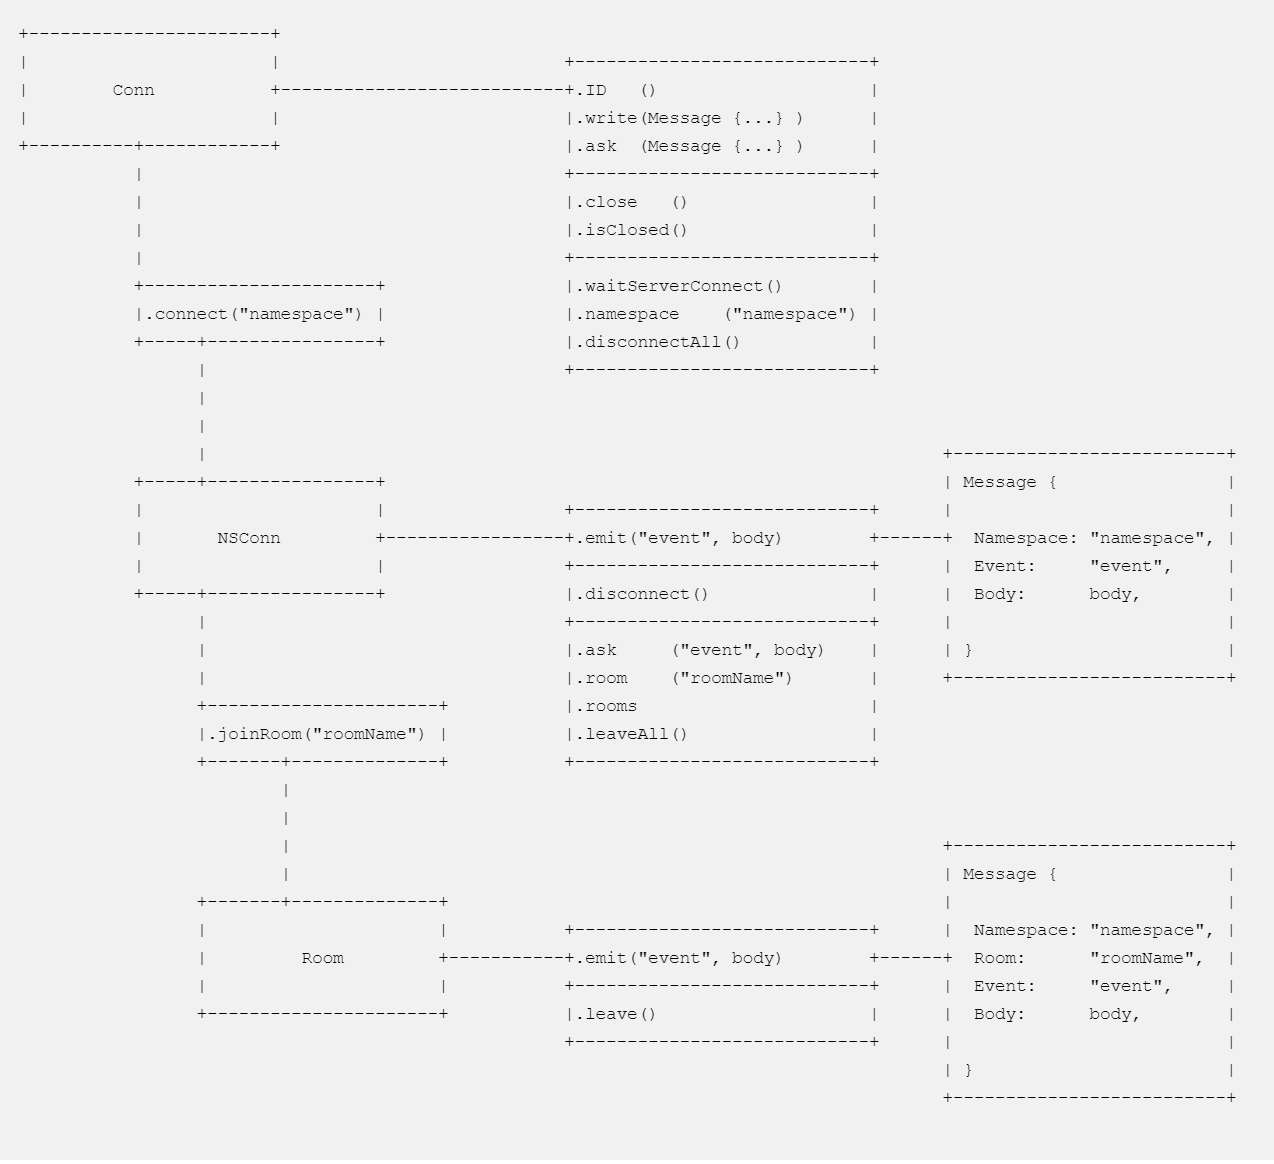
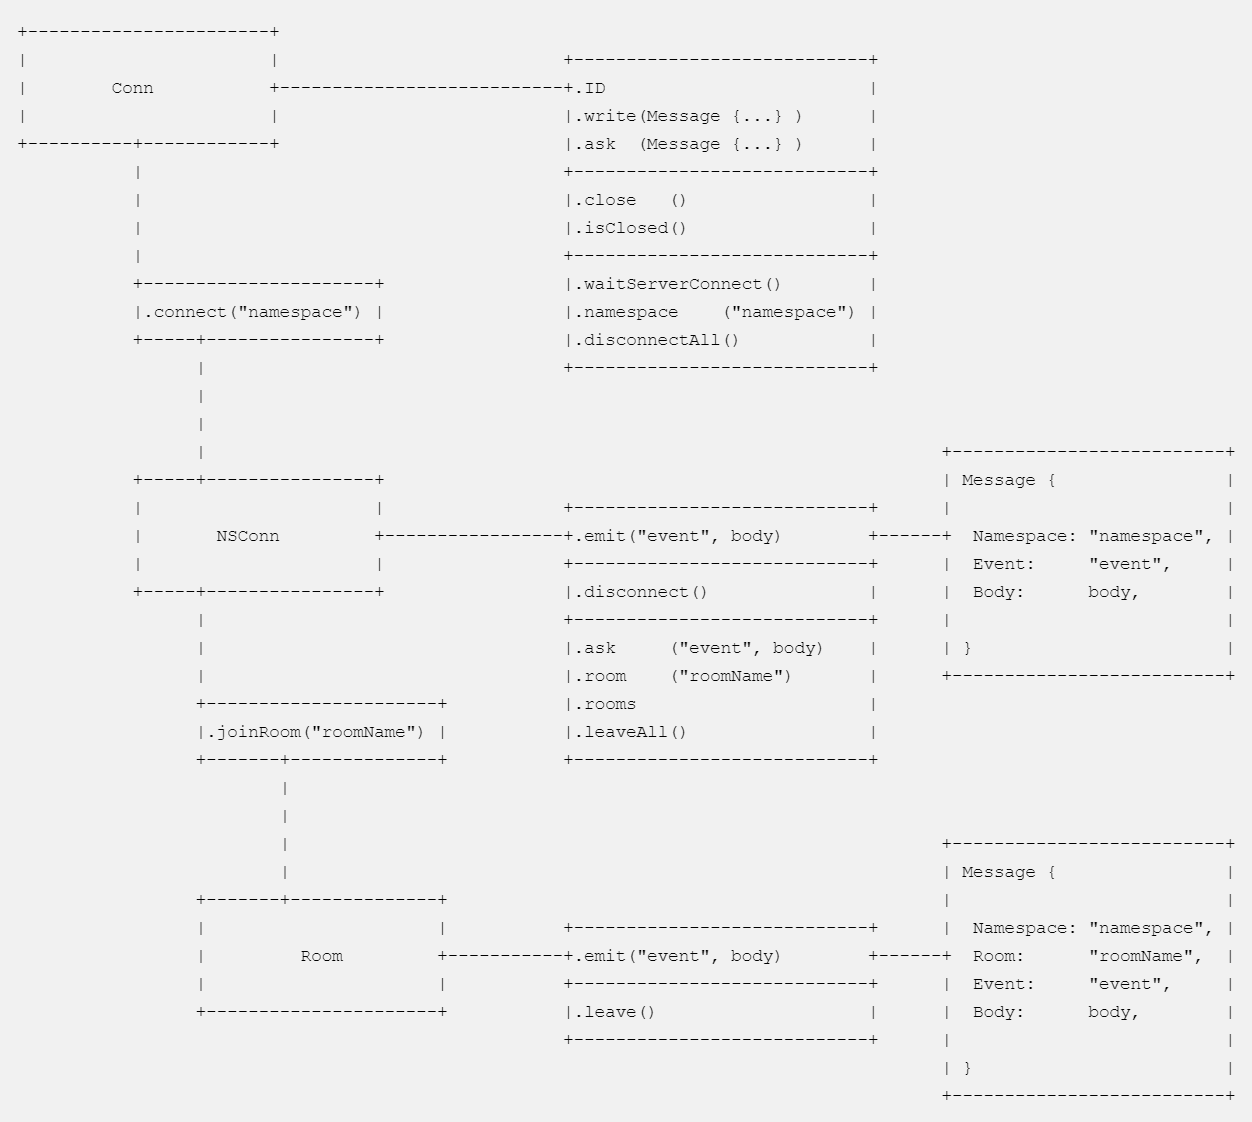
Conn#ID is property, not function here

diff --git a/README.md b/README.md
@@ -50,6 +50,48 @@ This libray is written in [Typescript](https://www.typescriptlang.org/) and the 
 
 **Navigate** through [./_examples](_examples) for basic usage, and [kataras/neffos/_examples](https://github.com/kataras/neffos/tree/master/_examples) for extensive use.
 
+<pre>
++-----------------------+
+|                       |                           +----------------------------+
+|        Conn           +---------------------------+.ID                         |
+|                       |                           |.write(Message {...} )      |
++----------+------------+                           |.ask  (Message {...} )      |
+           |                                        +----------------------------+
+           |                                        |.close   ()                 |
+           |                                        |.isClosed()                 |
+           |                                        +----------------------------+
+           +----------------------+                 |.waitServerConnect()        |
+           |.connect("namespace") |                 |.namespace    ("namespace") |
+           +-----+----------------+                 |.disconnectAll()            |
+                 |                                  +----------------------------+
+                 |
+                 |
+                 |                                                                      +--------------------------+
+           +-----+----------------+                                                     | Message {                |
+           |                      |                 +----------------------------+      |                          |
+           |       NSConn         +-----------------+.emit("event", body)        +------+  Namespace: "namespace", |
+           |                      |                 +----------------------------+      |  Event:     "event",     |
+           +-----+----------------+                 |.disconnect()               |      |  Body:      body,        |
+                 |                                  +----------------------------+      |                          |
+                 |                                  |.ask     ("event", body)    |      | }                        |
+                 |                                  |.room    ("roomName")       |      +--------------------------+
+                 +----------------------+           |.rooms                      |
+                 |.joinRoom("roomName") |           |.leaveAll()                 |
+                 +-------+--------------+           +----------------------------+
+                         |
+                         |
+                         |                                                              +--------------------------+
+                         |                                                              | Message {                |
+                 +-------+--------------+                                               |                          |
+                 |                      |           +----------------------------+      |  Namespace: "namespace", |
+                 |         Room         +-----------+.emit("event", body)        +------+  Room:      "roomName",  |
+                 |                      |           +----------------------------+      |  Event:     "event",     |
+                 +----------------------+           |.leave()                    |      |  Body:      body,        |
+                                                    +----------------------------+      |                          |
+                                                                                        | }                        |
+                                                                                        +--------------------------+
+
+</pre>
 [![](ascii_outline.png)](ascii_outline.txt)
 
 ## Versioning
